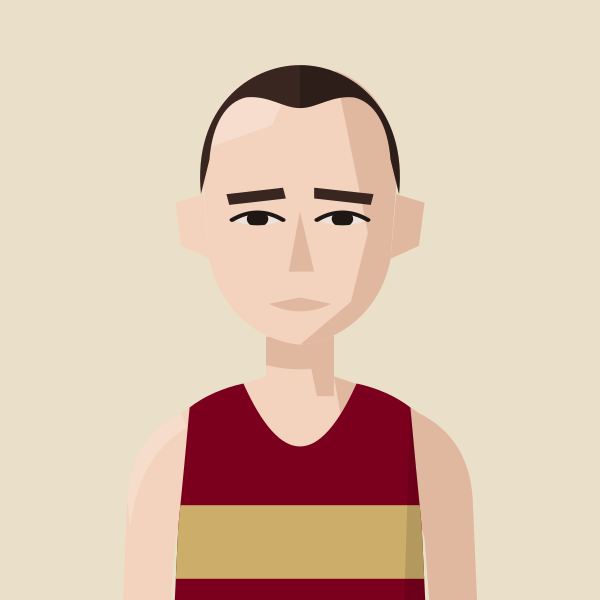
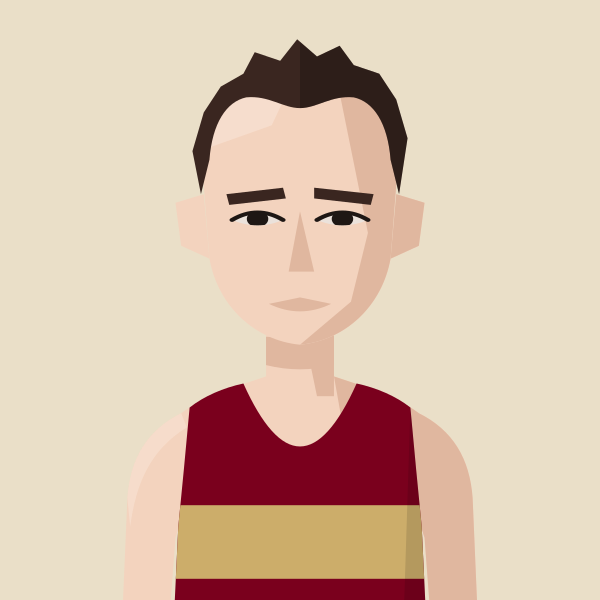
Sam Sommerville: tuftier hair
Claude-Session: https://claude.ai/code/session_01MgmDWhFqnSSnP4iBLKXUZC

Changed region(s): [[0.3, 0.06, 0.69, 0.3]]

diff --git a/files/index.html b/files/index.html
@@ -577,7 +577,7 @@ add('kitty-shepherd-cross','BEL','Kitty Shepherd-Cross','Kitty Shepherd Cross');
 return m;})();
 // Athlete header figure: superstar portrait if we have one, else a grey runner in the club vest, else the plain vest icon
 // Changes whenever any portrait changes (set by tools/build_og.py), so browsers fetch fresh images instead of old cached ones
-const PORTRAIT_V='365d6d1a';
+const PORTRAIT_V='fe714387';
 const AthletePortrait=({name,club,w,fill,onClick})=>{const[failed,setFailed]=useState(false);const pk=PORTRAITS[normalizeNameForCompare(name).replace(/\s*\([^)]*\)$/,'')];const file=pk&&pk.club===club?pk.file:null;const src=file?`/portraits/athletes/${file}.svg?v=${PORTRAIT_V}`:PORTRAIT_CLUBS.has(club)?`/portraits/clubs/${club.replace(/\//g,'').replace(/&/g,'and')}.svg?v=${PORTRAIT_V}`:null;if(!src||failed)return<div onClick={onClick} className={onClick?'cursor-pointer':''}><ClubShield club={club} size={w}/></div>;const h=Math.round(w*148/126),ih=Math.round(w*1.4);if(fill)return<div onClick={onClick} className="cursor-pointer" style={{alignSelf:'stretch',minHeight:h,aspectRatio:'126 / 148',flexShrink:0,position:'relative',borderRadius:4,overflow:'hidden'}}><img src={src} alt={file?`Portrait of ${name.replace(/\s*\([^)]*\)$/,'')}`:`Runner in ${CLUBS[club]?.name||club} vest`} style={{position:'absolute',top:0,left:0,display:'block',width:'100%',height:'auto'}} onError={()=>setFailed(true)}/></div>;return<div style={{width:w,height:h,borderRadius:4,overflow:'hidden',flexShrink:0}}><img src={src} alt={file?`Portrait of ${name.replace(/\s*\([^)]*\)$/,'')}`:`Runner in ${CLUBS[club]?.name||club} vest`} width={w} height={ih} style={{display:'block',width:w,height:ih}} onError={()=>setFailed(true)}/></div>;};
 const getClubVestSvg=(club)=>{
   const p="M3 0 L6 0 Q7 4 10 5 Q13 4 14 0 L17 0 L17 20 L3 20 Z";

diff --git a/tools/gen_portraits.py b/tools/gen_portraits.py
@@ -125,6 +125,7 @@ HAIR["longloose"] = '<path d="M60,140 C52,66 76,36 100,36 C124,36 148,66 140,140
 HAIR_BACK["longloose"] = '<path d="M58,90 C55,52 80,34 100,34 C120,34 145,52 142,90 Q150,120 146,150 Q152,180 144,212 L56,212 Q48,180 54,150 Q50,120 58,90 Z"/>'
 HAIR["cropround"] = '<path d="M65,100 C62,60 82,40 100,40 C118,40 138,60 135,100 L132,86 C131,74 126,66 116,63 C108,61 104,63 100,66 C96,63 92,61 84,63 C74,66 69,74 68,86 Z"/>'
 HAIR["croprecederound"] = '<path d="M65,100 C62,60 82,40 100,40 C118,40 138,60 135,100 L132,84 C131,67 126,57 119,55 C111,54 106,60 100,60 C94,60 89,54 81,55 C74,57 69,67 68,84 Z"/>'
+HAIR["tuftrecede"] = '<path d="M65,100 L62,80 L66,62 L72,50 L80,44 L84,34 L93,38 L99,28 L106,36 L114,31 L119,40 L128,44 L134,56 L138,74 L135,100 L132,84 C131,67 126,57 119,55 C111,54 106,60 100,60 C94,60 89,54 81,55 C74,57 69,67 68,84 Z"/>'
 FACIAL = {
     "shortbeard": '<path d="M66,112 L74,124 L84,146 L116,146 L126,124 L134,112 L134,180 L66,180 Z" opacity=".6"/><path d="M86,141 L100,138 L114,141 L113,146 L100,143.5 L87,146 Z" opacity=".7"/>',
     "mostubble": '<path d="M66,112 L74,124 L84,146 L116,146 L126,124 L134,112 L134,180 L66,180 Z" opacity=".32"/><path d="M84,141 L100,137 L116,141 L117,150 L112,147 L100,144 L88,147 L83,150 Z"/>',
@@ -405,7 +406,7 @@ save("evans", figure("BEL", skin=1, hair="crop", hair_colour="#A8703F"))
 save("roberts", figure("HHH", skin=1, hair="curtains", hair_colour="bleached", roots="mid brown", mud=True))
 save("slemeck", figure("H/W", skin=1, hair="quiff", hair_colour="mid brown", facial="beard", gaunt=True))
 save("edgar", figure("BEL", skin=1, hair="buzzrecede", hair_colour="light brown", facial="moustache", shades=True))
-save("sommerville", figure("BEL", skin=1, hair="croprecederound", hair_colour="dark brown"))
+save("sommerville", figure("BEL", skin=1, hair="tuftrecede", hair_colour="dark brown"))
 save("mcdowell", figure("H/W", skin=1, hair=None))
 save("coogan", figure("HHH", skin=1, hair="ponytail", hair_colour="blonde"))
 save("hind", figure("KEN", skin=1, hair="quiffrecede", hair_colour="dark brown"))
